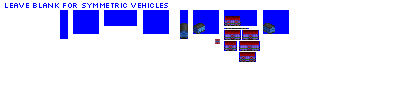
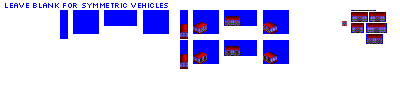
Change: WIP on NG box car, fruit and veg car

Changed region(s): [[0.45, 0.21, 0.72, 0.69], [0.84, 0.09, 0.99, 0.45]]

diff --git a/src/vehicles/fruit_veg_cars.py b/src/vehicles/fruit_veg_cars.py
@@ -2,6 +2,18 @@ from train import FruitVegCarConsist, FreightCar
 
 
 def main():
+    #--------------- pony NG ----------------------------------------------------------------------
+    consist = FruitVegCarConsist(roster='pony',
+                                 base_numeric_id=1310,
+                                 gen=1,
+                                 subtype='A',
+                                 track_type='NG')
+
+    consist.add_unit(type=FreightCar,
+                     vehicle_length=4,
+                     # !! wrong chassis !!
+                     chassis='2_axle_filled_16px')
+
     #--------------- pony --------------------------------------------------------------------------
     consist = FruitVegCarConsist(roster='pony',
                                  base_numeric_id=2640,

diff --git a/src/vehicles/box_cars.py b/src/vehicles/box_cars.py
@@ -11,6 +11,7 @@ def main():
 
     consist.add_unit(type=FreightCar,
                      vehicle_length=4,
+                     # !! wrong chassis !!
                      chassis='2_axle_filled_16px')
 
     #--------------- pony ----------------------------------------------------------------------
